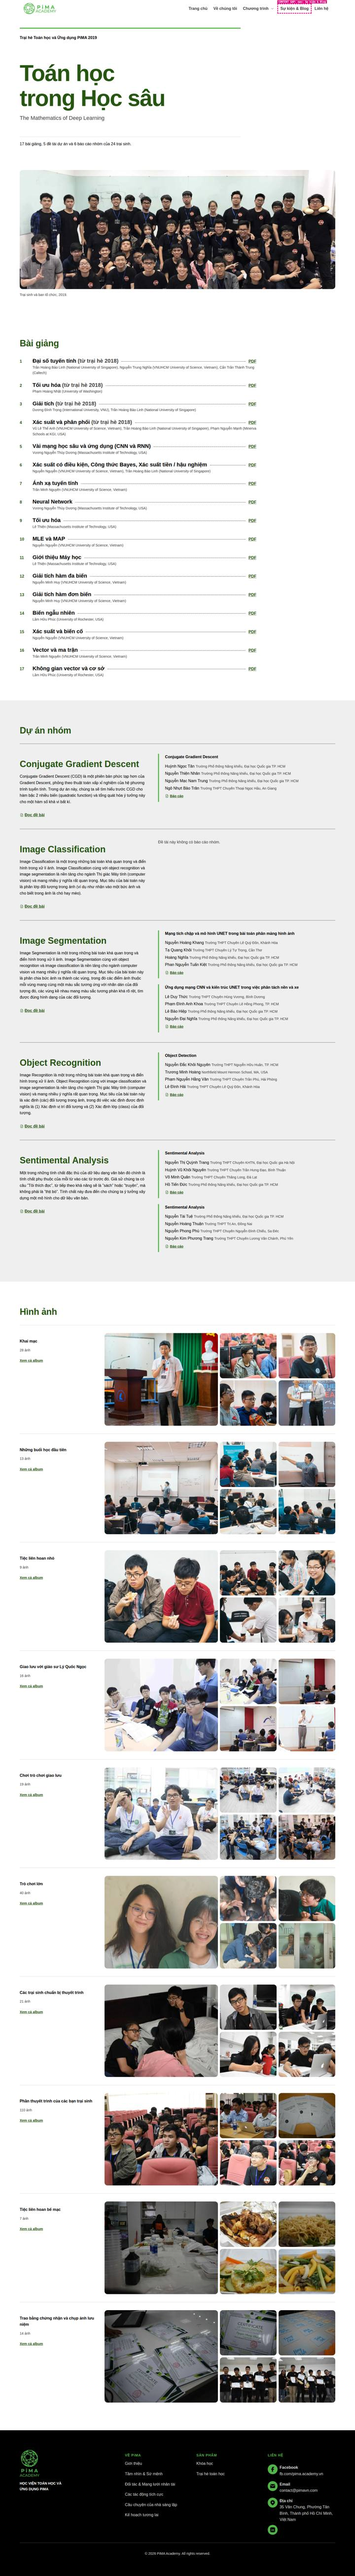
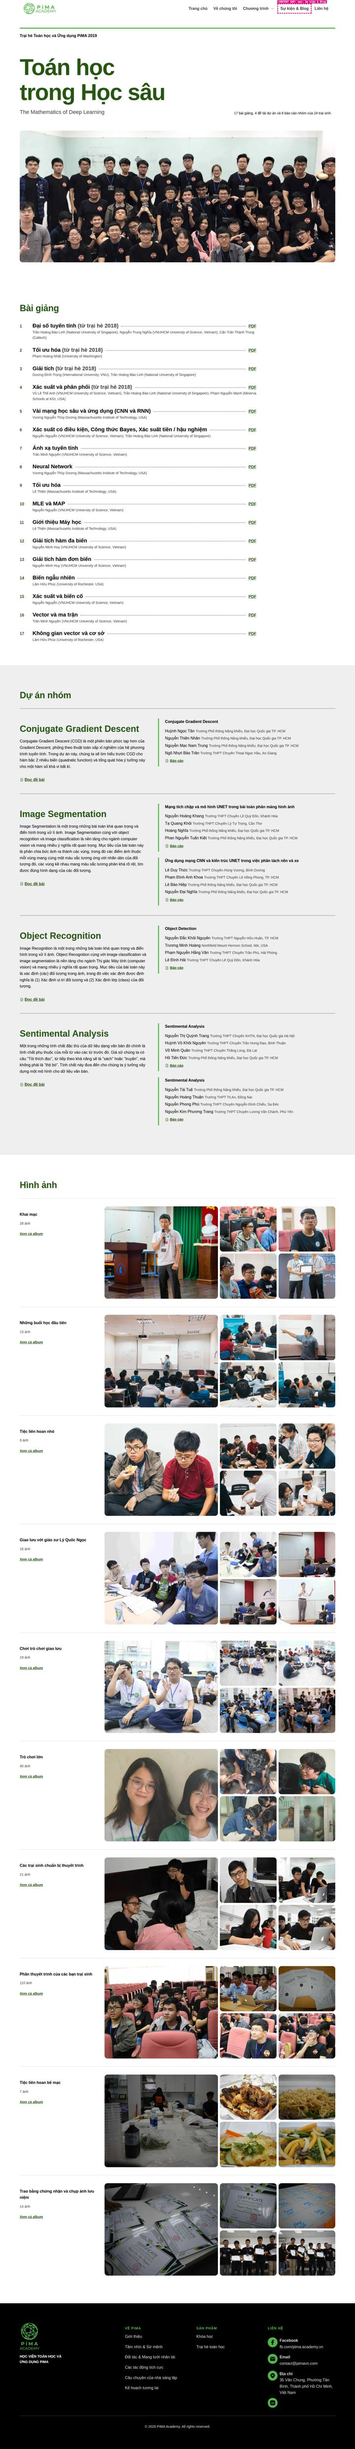
Prototype: one hero for every year, temporary 2025 cover
Every variant opens the same way whatever the year holds: D a title page then the cover,
E the cover then the title, F the poster then the cover, each cover in a 12:5 frame (4:3 on
mobile). D's programme moves next to the preface. 2025 borrows the 2018 old-site banner
until its own cover arrives.

diff --git a/src/sections/camp-archive/prototype/data.ts b/src/sections/camp-archive/prototype/data.ts
@@ -8,6 +8,8 @@ import canTranThanhTrung from "../../../assets/images/can-tran-thanh-trung.avif"
 import tranThanhLong from "../../../assets/images/tran-thanh-long.avif";
 import phamKimSon from "../../../assets/images/pham-kim-son.avif";
 import cover2019 from "../../../assets/camp-archive/2019/cover.jpg";
+// Temporary: the 2018 old-site banner stands in until the user supplies a 2025 cover.
+import cover2025 from "../../../assets/camp-archive/2025/cover-temp-2018-banner.jpg";
 
 export type FileLabel = "PDF" | "Slide" | "Notebook" | "Thư mục" | "Mã nguồn" | "Lời giải";
 export interface FileLink { label: FileLabel; url: string }
@@ -160,6 +162,7 @@ const ptnk25 = "Trường Phổ thông Năng khiếu, ĐHQG-TPHCM";
 export const camp2025: CampYear = {
   year: 2025,
   topic: { vi: "Toán học trong các Mô hình Tạo sinh", en: "The Mathematics of Generative Models" },
+  cover: cover2025,
   description: [
     "Toán học trong các Mô hình Tạo sinh (The Mathematics of Generative Models) là một chủ đề nằm ở giao điểm giữa Toán học, Khoa học Dữ liệu và Trí tuệ Nhân tạo. Mô hình tạo sinh là những hệ thống có khả năng học từ dữ liệu đã có để tạo ra dữ liệu mới theo yêu cầu của người dùng. Ví dụ điển hình là ChatGPT (tạo văn bản ngôn ngữ tự nhiên) và DALL-E (tạo hình ảnh từ văn bản). Đằng sau sức mạnh của các mô hình này là hệ thống các công cụ toán học và kỹ thuật lập trình sâu sắc. Những kiến thức đó được tích hợp để xử lý dữ liệu và huấn luyện mô hình. Qua đó, các kiến thức như đại số tuyến tính, vi tích phân và xác suất thống kê chính là nền tảng tạo nên trí tuệ của những hệ thống hiện đại này.",
   ],
